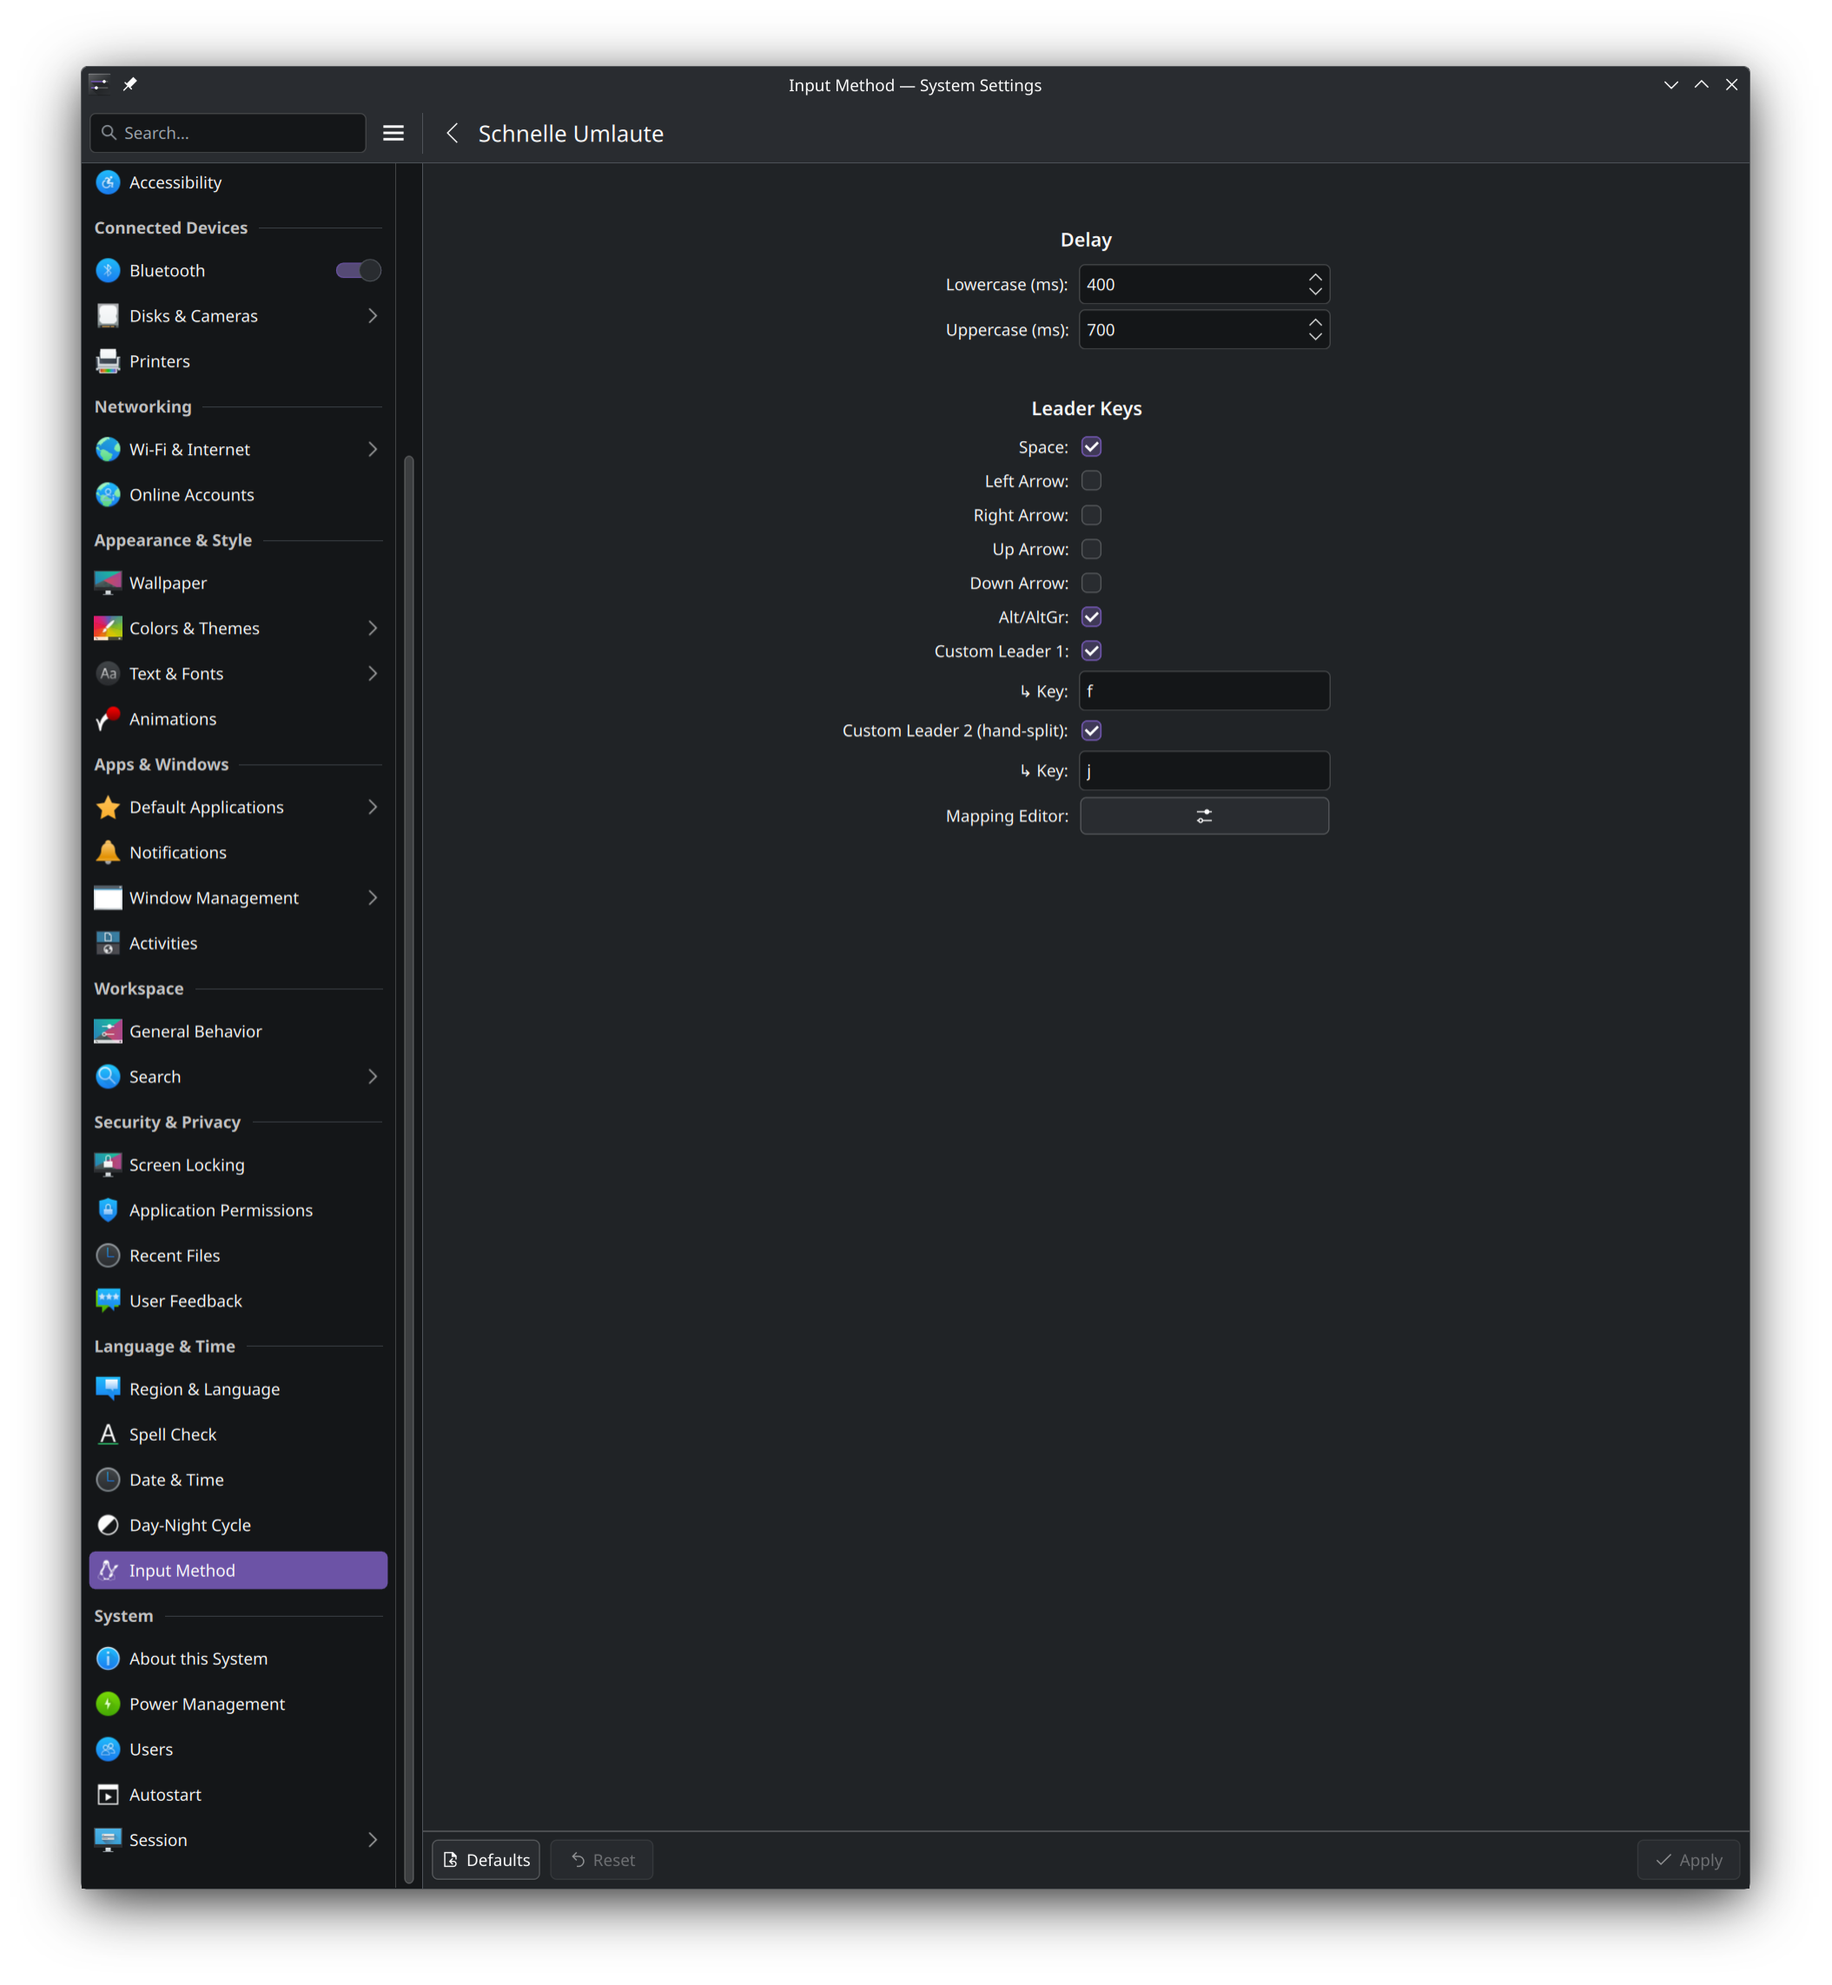
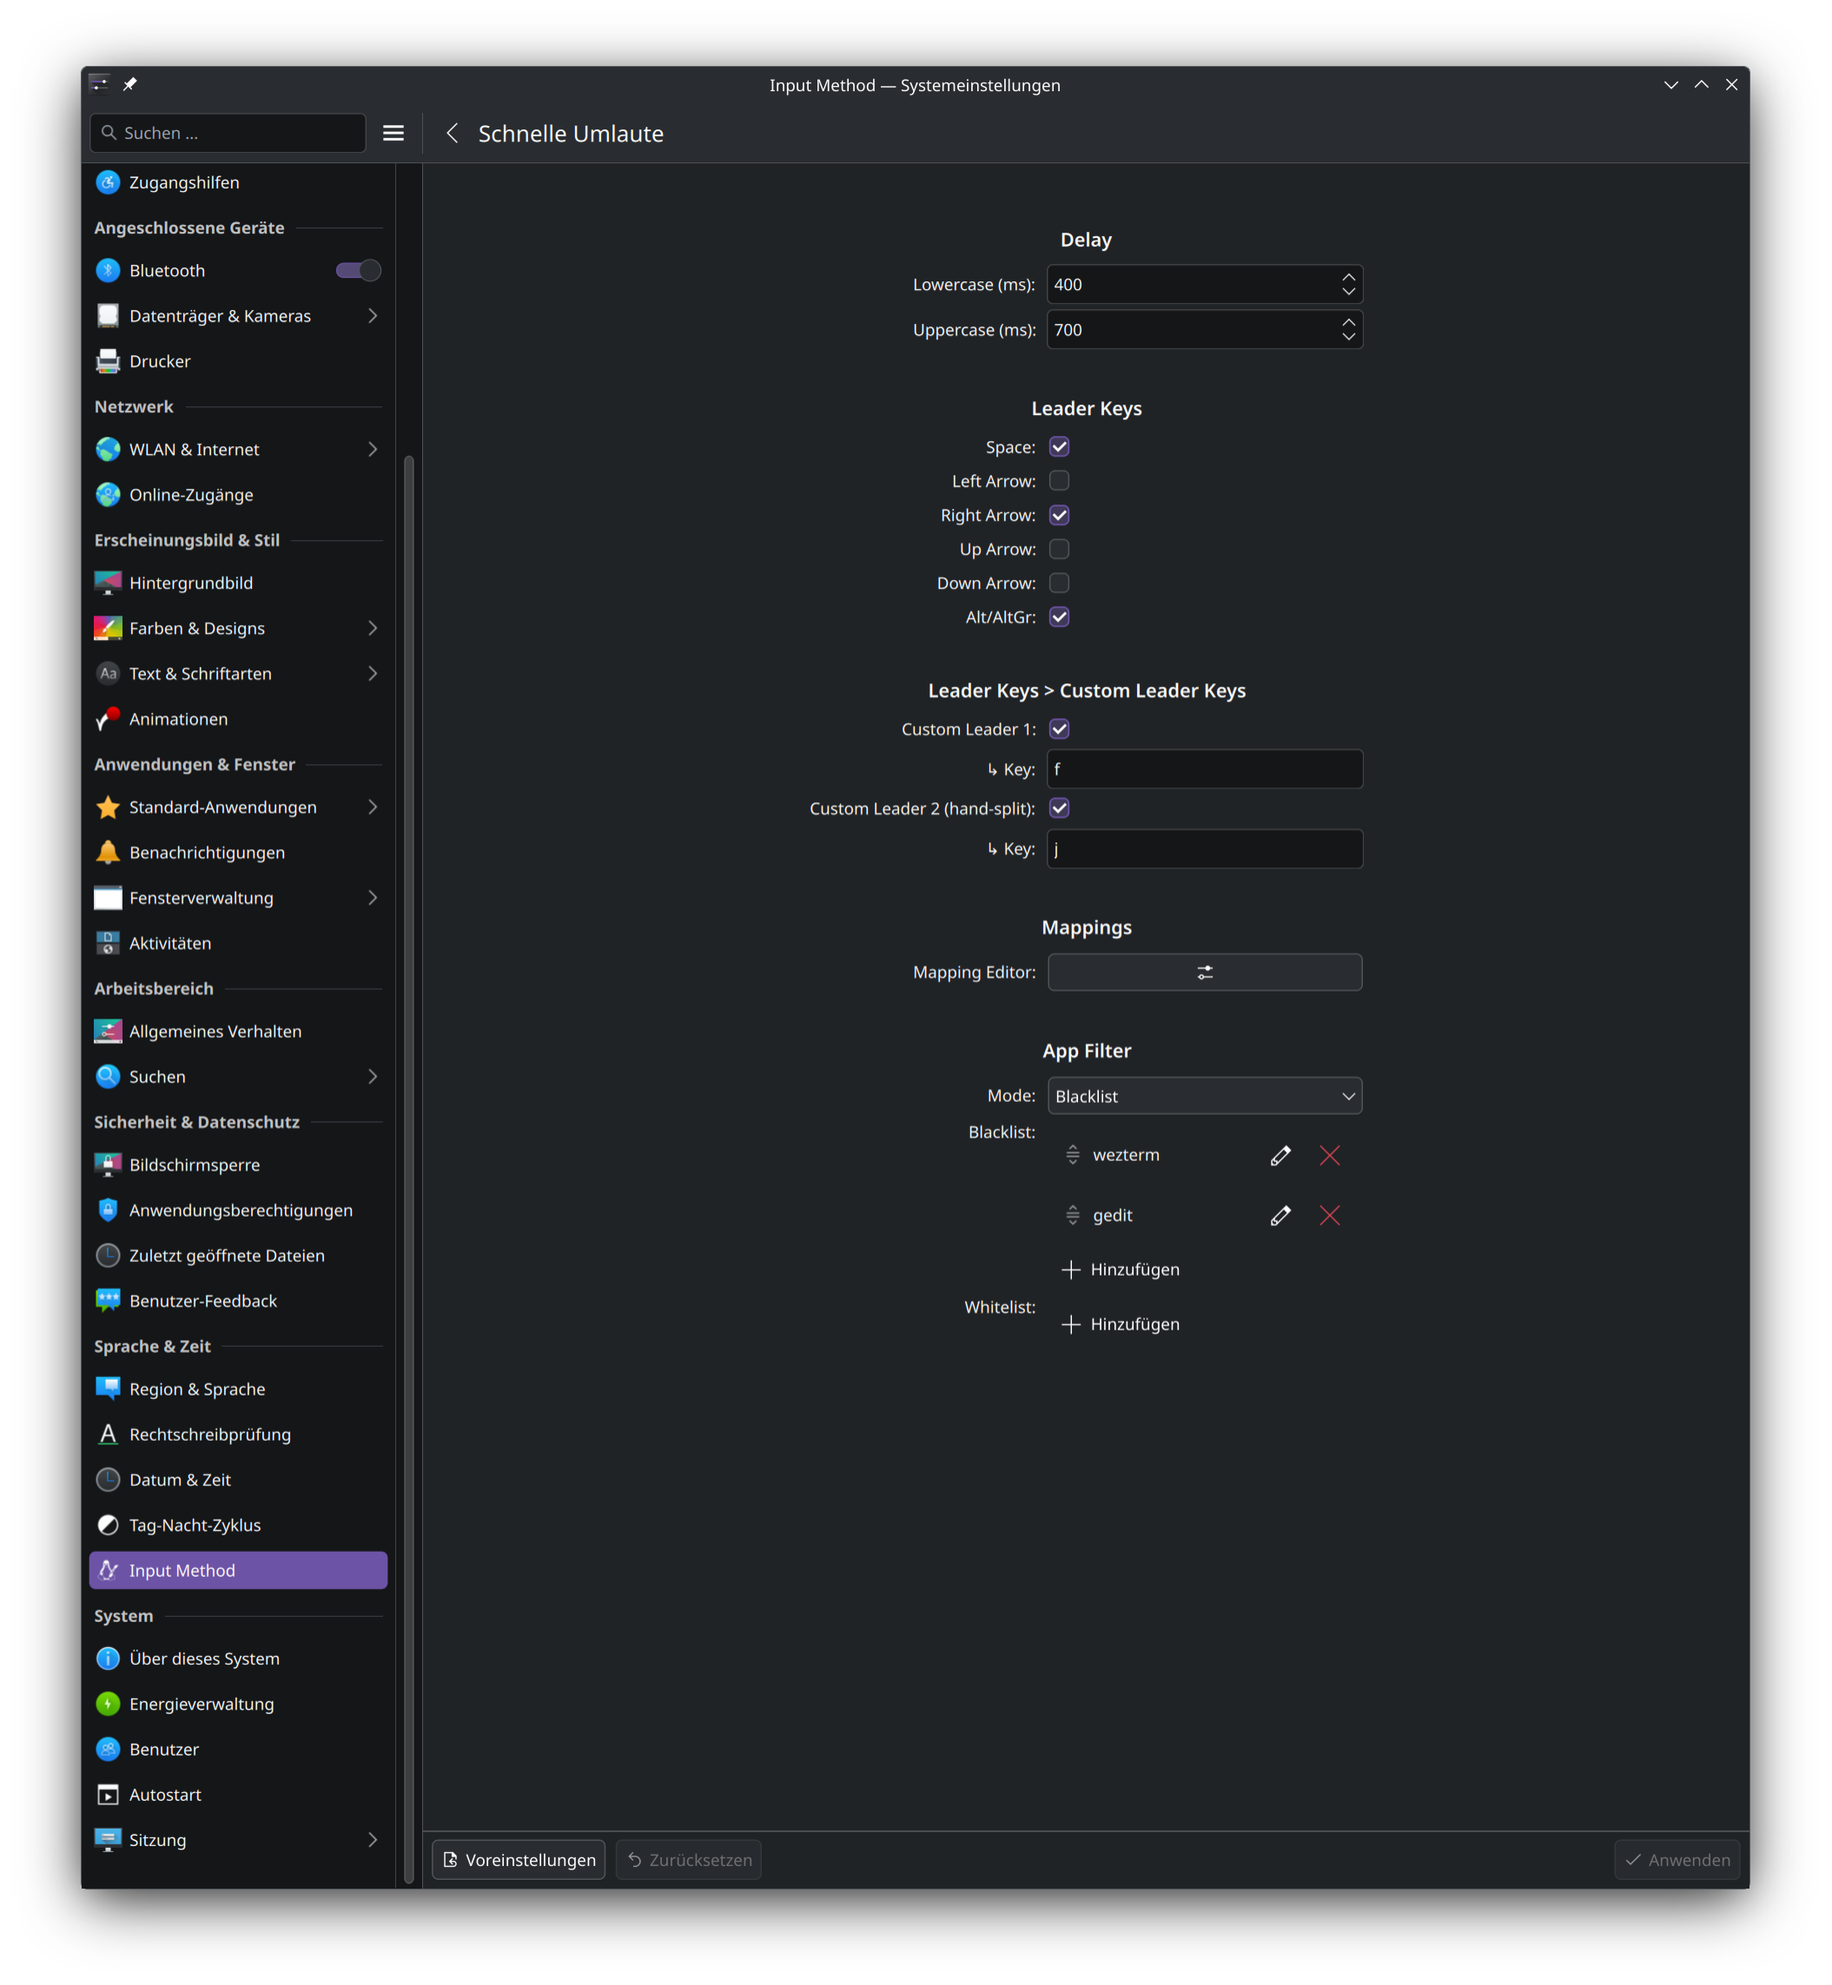
docs: update config screenshots and remove broken app filter image reference

diff --git a/docs/CONFIGURATION.md b/docs/CONFIGURATION.md
@@ -244,8 +244,6 @@ Emoji cycling also works: set Output to `😊,😀,😁,🙂` to cycle through s
 
 ## App Filter
 
-![App Filter](assets/screenshot-app-filter.png)
-
 Disable Schnelle Umlaute in specific applications. Useful for games, password managers, IP/number-only input fields, or any app whose own shortcuts collide with the gesture input.
 
 | Mode | Behavior |
